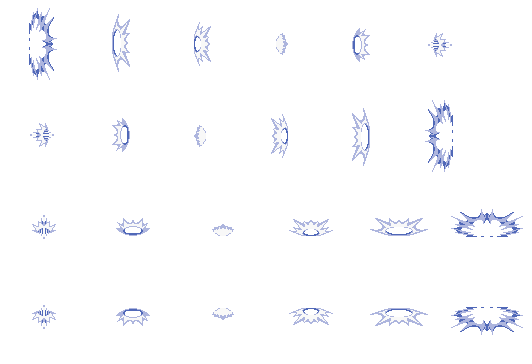
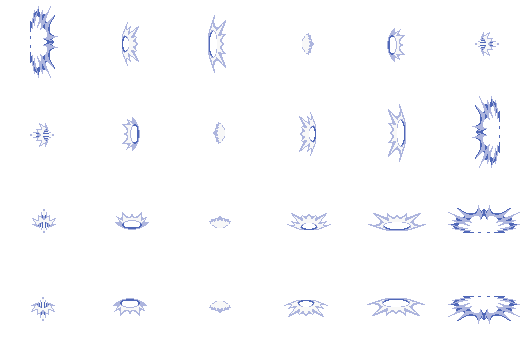
got weapon hit box working

diff --git a/enemy.js b/enemy.js
@@ -69,15 +69,21 @@ class Navy{
     };
 
     loadAnimation(){
+        for(var i = 0; i < 2; i++){
+            this.animation.push([]);
+            for(var j = 0; j < 2; j++){
+                this.animation[i].push([]);
+            }
+        }
         // walking right
-        this.animation[0] = new Animator(this.spriteSheet, 0, 10, 70, 60, 4, .15, false, true);
+        this.animation[0][0] = new Animator(this.spriteSheet, 0, 0, 80, 70, 4, .15, false, true);
         //walking left
-        this.animation[1] = new Animator(this.spriteSheet, 0, 80, 70, 60, 4, .15, true, true);
+        this.animation[0][1] = new Animator(this.spriteSheet, 0, 80, 80, 70, 4, .15, true, true);
         
         // dead right
-        this.animation[3] = new Animator(this.spriteSheet, 0, 150, 70, 60, 3, .2, false, false);
+        this.animation[1][0] = new Animator(this.spriteSheet, 0, 210, 70, 60, 3, .2, true, false);
         // dead left
-        this.animation[4] = new Animator(this.spriteSheet, 0, 220, 70, 60, 3, .2, true, false);
+        this.animation[1][1] = new Animator(this.spriteSheet, 0, 140, 70, 60, 3, .2, false, false);
     }
 
     update(){
@@ -92,11 +98,15 @@ class Navy{
         }else{
             this.facing = 0;
         }
+        if(this.health <= 0){
+            this.state = 1;
+            this.dead = true;
+        }
 
     };
 
     draw(ctx){
-        this.animation[this.facing].drawFrame(this.game.clockTick, ctx,  this.x - this.game.camera.x, this.y - this.game.camera.y, this.scale);
+        this.animation[this.state][this.facing].drawFrame(this.game.clockTick, ctx,  this.x - this.game.camera.x, this.y - this.game.camera.y, this.scale);
         ctx.fillStyle = this.color;
         ctx.beginPath();
         ctx.arc(this.x + 70 - this.game.camera.x, this.y + 50 - this.game.camera.y, this.radius, 0, 2 * Math.PI);
@@ -148,10 +158,12 @@ class Doflamingo{
         this.animation[4] = new Animator(this.spriteSheet, 648, 88, 79, 88, 8, .2, true, false);
     }
 
+
     update(){
         for(let i = 0; i < this.game.enemies.length; i++){
             if(this.id !== this.game.enemies[i].id && this.id !== 0){
                 checkCircleColliding(this,this.game.enemies[i])
+                CheckRectCircleColliding(this.game.enemies[i], this.game.player)
             }   
             enemyTracking(this, this.game);
         }

diff --git a/fruits.js b/fruits.js
@@ -38,16 +38,16 @@ class Gomu{
             }
         }
         // up direction
-        this.animation[0] = new Animator(spriteSheet, 0, 279, 90, 130, 6, .3, false, true);
+        this.animation[0] = new Animator(spriteSheet, -2, 270, 90, 90, 6, .3, false, true);
 
         // down direction
-        this.animation[1] = new Animator(spriteSheet, 0, 200, 90, 100, 6, .3, false, true);
+        this.animation[1] = new Animator(spriteSheet, -2, 180, 90, 90, 6, .3, false, true);
 
         // left direction
-        this.animation[2] = new Animator(spriteSheet, 0, 88, 79, 90, 6, 2, false, true);
+        this.animation[2] = new Animator(spriteSheet, -1, 0, 90, 90, 6, .3, false, true);
         
         // right direction
-        this.animation[3] = new Animator(spriteSheet, 0, 120, 79, 30, 6, .3, true, true);
+        this.animation[3] = new Animator(spriteSheet, -1, 90, 90, 90, 6, .3, true, true);
     }
 
     update(){
@@ -91,10 +91,23 @@ class Gomu{
             this.facing = 3;
         }
 
-        this.x = this.location.x1 + 42;
-        this.y = this.location.y1 + 20;
+        if(this.direction == Direction.Up || this.direction == Direction.Down){
+            this.x = this.location.x1 + 42;
+            this.y = this.location.y1 + 20;
+        } else {
+            this.x = this.location.x1 + 20;
+            this.y = this.location.y1 + 42;
+        }
         
         this.step += this.range/this.duration;
+
+        for(let i = 0; i < this.game.enemies.length; i++){
+            if(this.id !== this.game.enemies[i].id && this.id !== 0){
+                if(CheckRectCircleColliding(this.game.enemies[i], this)){
+                    this.game.enemies[i].health -= 200;
+                } 
+            }   
+        }
 
     }
 

diff --git a/collisions.js b/collisions.js
@@ -1,3 +1,4 @@
+// checks if a circle collides with a another circle
 const checkCircleColliding = function(thisEntity, otherEntity){
     var dx = thisEntity.x - otherEntity.x;
     var dy = thisEntity.y - otherEntity.y;
@@ -15,18 +16,24 @@ const checkCircleColliding = function(thisEntity, otherEntity){
     }
 
 }
-
-const CheckRectCircleColliding = function RectCircleColliding(circle,rect){
+// checks if a circle collides with a rectangle
+const CheckRectCircleColliding = function RectCircleColliding(circle, rect){
     
+    // calculate distance between the circle's center and this rectangle's center
     var distX = Math.abs(circle.x - rect.x-rect.width/2);
-    var distY = Math.abs(circle.y - rect.y-rect.height/2);
-
+    var distY = Math.abs(circle.y - rect.y-rect.height/2);    
+    
+    // checks if the distance is greater than the dimension of the circle and rectangle
+    // returns false if a collision is not detected
     if (distX > (rect.width/2 + circle.radius)) { return false; }
     if (distY > (rect.height/2 + circle.radius)) { return false; }
-
+    
+    // checks if the distance is less than the dimension of the circle and rectangle
+    // returns true if a collision is detected
     if (distX <= (rect.w/2)) { return true; } 
     if (distY <= (rect.h/2)) { return true; }
 
+    //checks if a circle collision is detected with a rectangle
     var dx=distX-rect.width/2;
     var dy=distY-rect.height/2;
     return (dx*dx+dy*dy<=(circle.radius*circle.radius));

diff --git a/SceneManager.js b/SceneManager.js
@@ -22,8 +22,8 @@ class SceneManager {
         waveMaker.spawnRand();
 
 
-        this.luffy = new Zoro(gameEngine);
-        gameEngine.addPlayer(this.luffy);
+        this.player = new Luffy(gameEngine);
+        gameEngine.addPlayer(this.player);
 
         this.Background = new Background(gameEngine);
         gameEngine.addEntity(this.Background);
@@ -33,12 +33,12 @@ class SceneManager {
     update() {
  
 
-        let midpointX = params.screenWidth/2 - 100; //Canvas width - half of luffy width
+        let midpointX = params.screenWidth/2 - 100; //Canvas width - half of player width
         let midpointY = params.screenHeight/2 - 90;
 
 
-        this.x = this.luffy.x - midpointX;
-        this.y = this.luffy.y - midpointY;
+        this.x = this.player.x - midpointX;
+        this.y = this.player.y - midpointY;
     }
 
 

diff --git a/waves.js b/waves.js
@@ -53,15 +53,16 @@ class Wave{
         for(var i = 0; i < this.spawnDensity*4; i++){
             var enemy;
             var quadrant = randomInt(4);
-            switch(randomInt(3)){
+            switch(randomInt(1)){
                 case 0:
-                    enemy = new Doflamingo(this.game, this.game.uniqueEId++);
+                    enemy = new Navy(this.game, this.game.uniqueEId++);
                     break;
                 case 1:
-                    enemy = new Navy(this.game, this.game.uniqueEId++);
+                    enemy = new Doflamingo(this.game, this.game.uniqueEId++);
                     break;
                 case 2:
                     enemy = new Blackbeard(this.game, this.game.uniqueEId++);
+                    break;
             }          
             switch(quadrant){
                 case 0:

diff --git a/player.js b/player.js
@@ -3,7 +3,7 @@ class Luffy{
         this.game = game;
         this.id = theId;
         this.weapons = [new Gomu(game)];
-        this.game.luffy = this;
+        this.game.player = this;
 
         //sprite
         this.spriteSheet = ASSET_MANAGER.getAsset("./img/luffy7.png");
@@ -125,7 +125,7 @@ class Zoro{
         this.game = game;
         this.id = theId;
         this.weapons = [new Gomu(game)];
-        this.game.zoro = this;
+        this.game.player = this;
 
         //sprite
         this.spriteSheet = ASSET_MANAGER.getAsset("./img/zoro1.png");

diff --git a/main.js b/main.js
@@ -20,14 +20,10 @@ ASSET_MANAGER.downloadAll(() => {
 
 	params.screenWidth = 1024;
 	params.screenHeight = 768;
-
-    //gameEngine.addEntity(new SceneManager(gameEngine));
 	
 
     gameEngine.init(ctx);
 
-	/* var waveMaker = new Wave(gameEngine); */
-	/* waveMaker.spawnRand(); */
 	new SceneManager(gameEngine);
 
     gameEngine.start();
